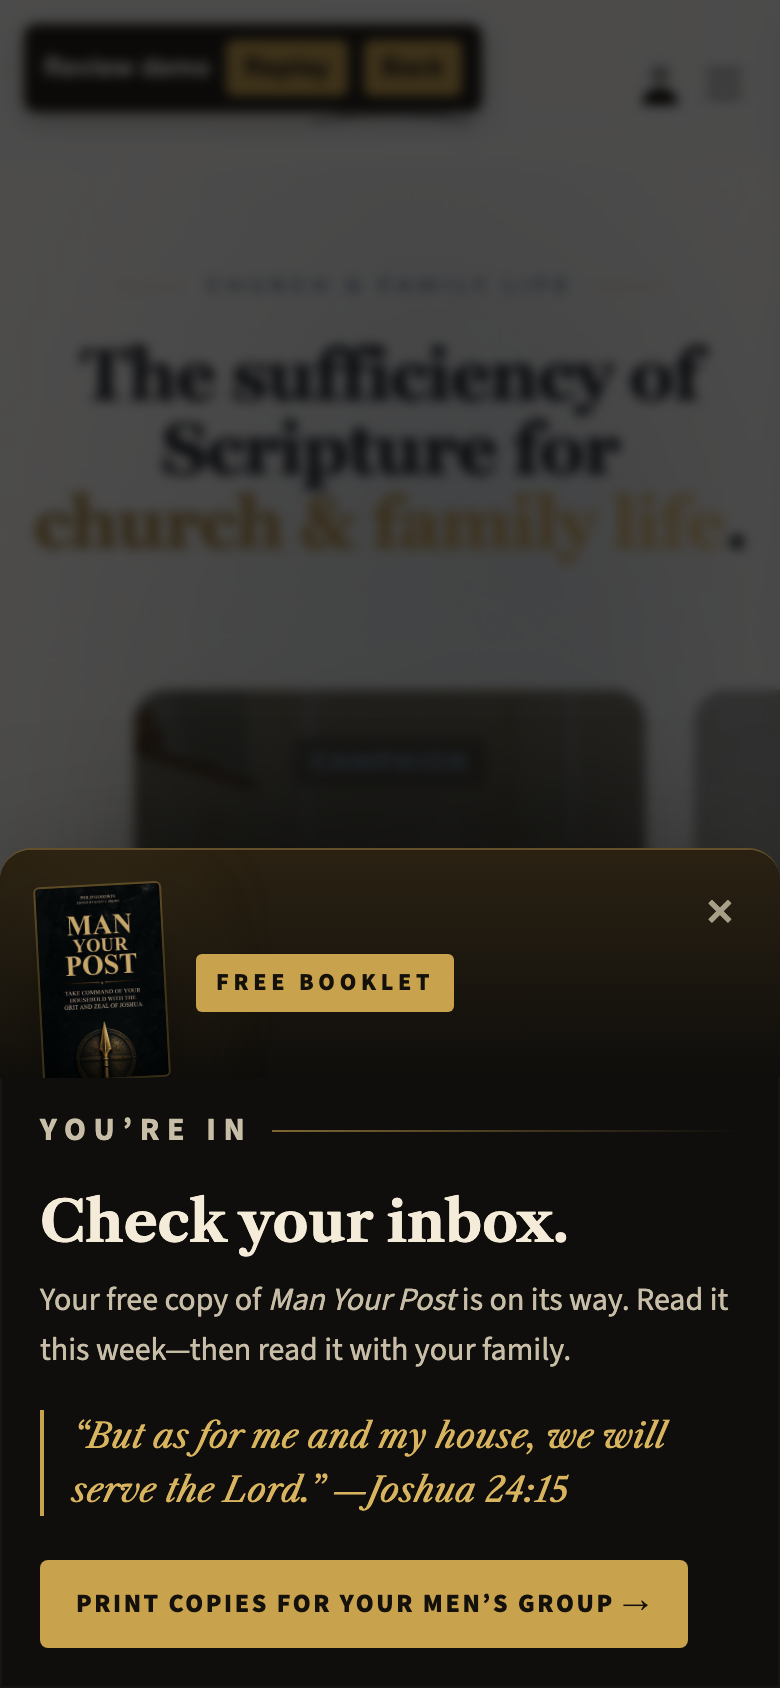
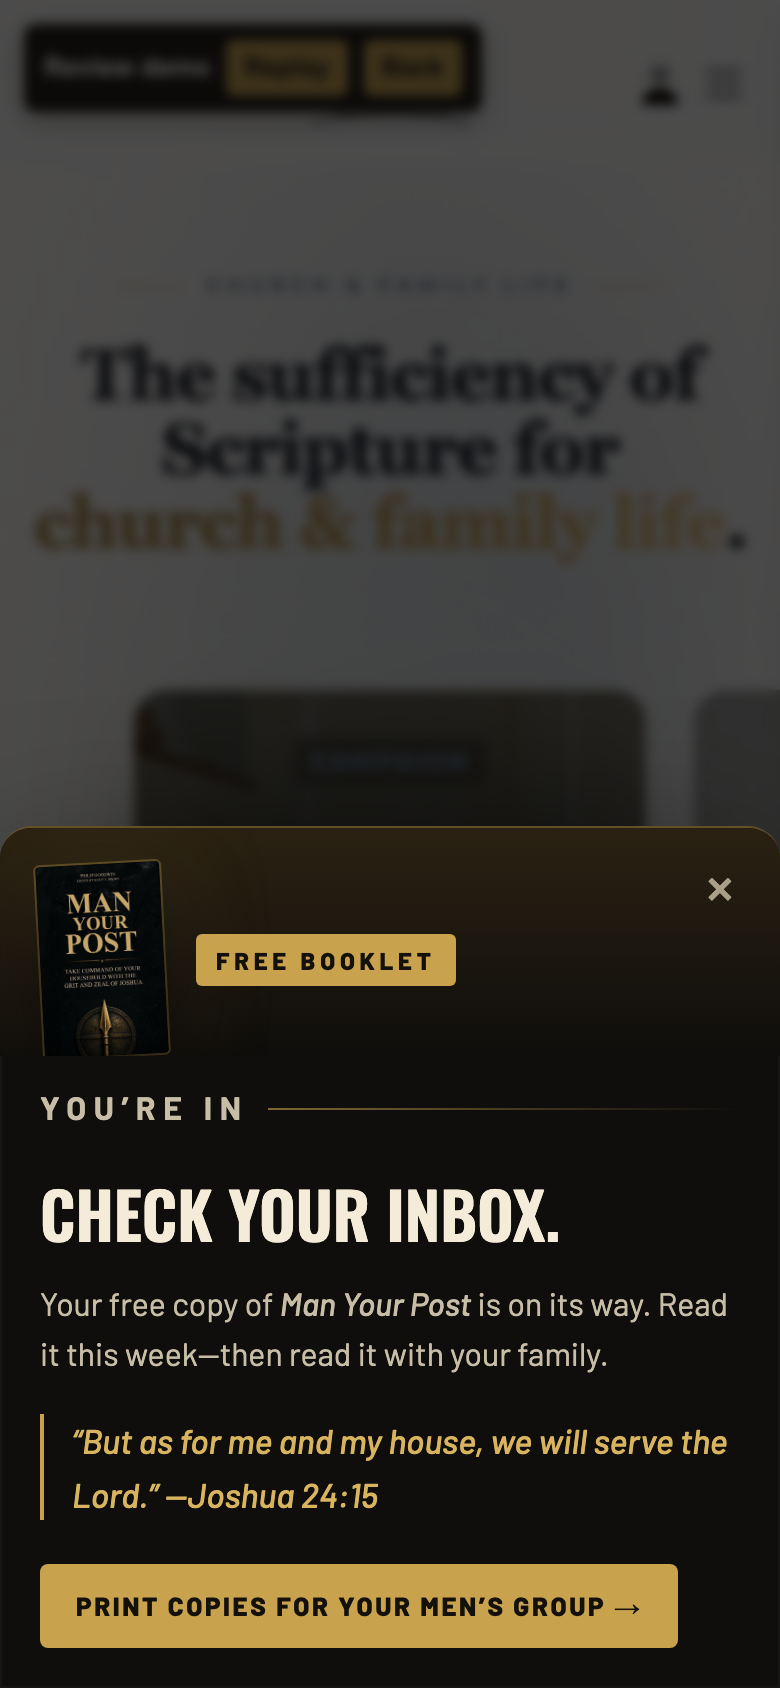
v3 type: Oswald headlines, Cinzel sign-off, Barlow body (cards + popup)

diff --git a/popup/myp-popup.js b/popup/myp-popup.js
@@ -60,26 +60,26 @@
 *{box-sizing:border-box}\
 .bd{position:fixed;inset:0;z-index:2147483000;background:rgba(8,7,5,.72);backdrop-filter:blur(3px);-webkit-backdrop-filter:blur(3px);display:flex;align-items:center;justify-content:center;padding:24px;opacity:0;transition:opacity .35s ease}\
 .bd.on{opacity:1}\
-.dlg{position:relative;width:100%;max-width:820px;display:grid;grid-template-columns:300px 1fr;background:#0f0e0c;color:#efe6d2;border:1px solid rgba(201,162,78,.45);box-shadow:0 30px 80px rgba(0,0,0,.6),inset 0 0 0 1px rgba(255,255,255,.03);border-radius:6px;overflow:hidden;transform:translateY(14px) scale(.985);transition:transform .45s cubic-bezier(.2,.8,.2,1);font-family:'Source Sans 3','Helvetica Neue',Arial,sans-serif}\
+.dlg{position:relative;width:100%;max-width:820px;display:grid;grid-template-columns:300px 1fr;background:#0f0e0c;color:#efe6d2;border:1px solid rgba(201,162,78,.45);box-shadow:0 30px 80px rgba(0,0,0,.6),inset 0 0 0 1px rgba(255,255,255,.03);border-radius:6px;overflow:hidden;transform:translateY(14px) scale(.985);transition:transform .45s cubic-bezier(.2,.8,.2,1);font-family:'Barlow','Helvetica Neue',Arial,sans-serif}\
 .bd.on .dlg{transform:none}\
 .art{position:relative;background:radial-gradient(120% 80% at 50% 38%,#3a2d14 0%,#16120b 55%,#0a0908 100%);display:flex;align-items:center;justify-content:center;padding:34px 28px;overflow:hidden}\
 .cover{position:relative;z-index:1;width:100%;max-width:210px;aspect-ratio:1080/1669;object-fit:cover;border-radius:2px;box-shadow:0 22px 40px rgba(0,0,0,.7),0 0 0 1px rgba(201,162,78,.35),0 0 60px rgba(201,162,78,.18);transform:rotate(-2.5deg)}\
-.ribbon{position:absolute;z-index:2;top:22px;left:-38px;transform:rotate(-38deg);background:#c9a24e;color:#14110b;font:800 12px/1 'Source Sans 3',Arial,sans-serif;letter-spacing:.22em;padding:7px 48px;box-shadow:0 4px 12px rgba(0,0,0,.4)}\
+.ribbon{position:absolute;z-index:2;top:22px;left:-38px;transform:rotate(-38deg);background:#c9a24e;color:#14110b;font:800 12px/1 'Barlow',Arial,sans-serif;letter-spacing:.22em;padding:7px 48px;box-shadow:0 4px 12px rgba(0,0,0,.4)}\
 .body{padding:40px 42px 30px}\
 .eyebrow{font-size:12px;font-weight:700;letter-spacing:.24em;text-transform:uppercase;color:#c9a24e;margin:0 0 14px;display:flex;align-items:center;gap:10px}\
 .eyebrow:after{content:'';flex:1;height:1px;background:linear-gradient(90deg,rgba(201,162,78,.6),transparent)}\
-h2{text-wrap:balance;font-family:'Libre Caslon Text',Georgia,'Times New Roman',serif;font-weight:700;font-size:29px;line-height:1.17;margin:0 0 14px;color:#f4ecd9;letter-spacing:-.005em}\
+h2{text-wrap:balance;font-family:'Oswald',Impact,sans-serif;text-transform:uppercase;font-weight:600;font-size:33px;line-height:1.08;margin:0 0 14px;color:#f4ecd9;letter-spacing:-.005em}\
 h2 em{font-style:normal;color:#d9b45f;display:block;margin-top:4px}\
 .dlg:focus{outline:none}\
-.cta{font-family:'Libre Caslon Text',Georgia,serif;font-size:19px;line-height:1.35;margin:0 0 14px;color:#efe6d2}\
-.cta b{color:#d9b45f;font-weight:700;white-space:nowrap}\
+.cta{font-family:'Barlow',Arial,sans-serif;font-weight:600;font-size:19px;line-height:1.35;margin:0 0 14px;color:#efe6d2}\
+.cta b{font-family:'Cinzel',Georgia,serif;color:#d9b45f;font-weight:800;white-space:nowrap;letter-spacing:.02em}\
 .lede{font-size:15.5px;line-height:1.55;color:#c8bea8;margin:0 0 20px}\
 .lede i{color:#e6dcc4}\
 form{display:grid;grid-template-columns:1fr 1.35fr;gap:10px;margin:0}\
 input{width:100%;font:inherit;font-size:16px;color:#f4ecd9;background:#1a1814;border:1px solid #3b3529;border-radius:4px;padding:13px 14px;outline:none;transition:border-color .2s,box-shadow .2s}\
 input::placeholder{color:#7f7663}\
 input:focus{border-color:#c9a24e;box-shadow:0 0 0 3px rgba(201,162,78,.2)}\
-button.go{grid-column:1/-1;font:800 15px/1 'Source Sans 3',Arial,sans-serif;letter-spacing:.14em;text-transform:uppercase;color:#14110b;background:linear-gradient(180deg,#dcb766,#c39a45);border:0;border-radius:4px;padding:16px 18px;cursor:pointer;box-shadow:0 6px 18px rgba(201,162,78,.25);transition:transform .15s,filter .15s}\
+button.go{grid-column:1/-1;font:800 15px/1 'Barlow',Arial,sans-serif;letter-spacing:.14em;text-transform:uppercase;color:#14110b;background:linear-gradient(180deg,#dcb766,#c39a45);border:0;border-radius:4px;padding:16px 18px;cursor:pointer;box-shadow:0 6px 18px rgba(201,162,78,.25);transition:transform .15s,filter .15s}\
 button.go:hover{filter:brightness(1.06);transform:translateY(-1px)}\
 button.go:disabled{opacity:.6;cursor:wait;transform:none}\
 .fine{font-size:12.5px;line-height:1.45;color:#8a816d;margin:12px 0 0}\
@@ -91,9 +91,9 @@ button.go:disabled{opacity:.6;cursor:wait;transform:none}\
 .x{position:absolute;top:10px;right:10px;width:40px;height:40px;border-radius:50%;border:0;background:transparent;color:#a99f88;font-size:26px;line-height:40px;cursor:pointer;z-index:3}\
 .x:hover{background:rgba(255,255,255,.06);color:#f4ecd9}\
 .ok{display:none}\
-.ok h3{font-family:'Libre Caslon Text',Georgia,serif;font-size:28px;margin:0 0 10px;color:#f4ecd9}\
+.ok h3{font-family:'Oswald',Impact,sans-serif;text-transform:uppercase;font-weight:600;font-size:32px;margin:0 0 10px;color:#f4ecd9}\
 .ok p{font-size:16px;line-height:1.55;color:#c8bea8;margin:0 0 16px}\
-.ok .vs{font-family:'Libre Caslon Text',Georgia,serif;font-style:italic;color:#d9b45f;font-size:17px;border-left:2px solid #c9a24e;padding-left:14px;margin:18px 0 22px}\
+.ok .vs{font-family:'Barlow',Arial,sans-serif;font-weight:500;font-style:italic;color:#d9b45f;font-size:17px;border-left:2px solid #c9a24e;padding-left:14px;margin:18px 0 22px}\
 .ok a.btn{display:inline-block;color:#14110b;background:#c9a24e;text-decoration:none;font-weight:800;letter-spacing:.1em;text-transform:uppercase;font-size:13px;padding:13px 18px;border-radius:4px}\
 .done .form-area{display:none}.done .ok{display:block}\
 :focus-visible{outline:2px solid #e3c47a;outline-offset:2px}\
@@ -109,7 +109,7 @@ button.go:disabled{opacity:.6;cursor:wait;transform:none}\
  .ribbon{display:none}\
  .tag{display:block}\
  .body{padding:14px 20px 20px}\
- h2{font-size:23px;margin-bottom:10px}\
+ h2{font-size:27px;margin-bottom:10px}\
  .cta{font-size:17px;margin-bottom:10px}\
  .lede{font-size:14.5px;line-height:1.5;margin-bottom:14px}\
  form{grid-template-columns:1fr}\
@@ -153,7 +153,7 @@ button.go:disabled{opacity:.6;cursor:wait;transform:none}\
     if (document.getElementById("myp-fonts")) return;
     var l = document.createElement("link");
     l.id = "myp-fonts"; l.rel = "stylesheet";
-    l.href = "https://fonts.googleapis.com/css2?family=Libre+Caslon+Text:ital,wght@0,400;0,700;1,400&family=Source+Sans+3:wght@400;600;700;800&display=swap";
+    l.href = "https://fonts.googleapis.com/css2?family=Oswald:wght@500;600;700&family=Cinzel:wght@700;800;900&family=Barlow:ital,wght@0,400;0,500;0,600;0,700;0,800;1,500&display=swap";
     document.head.appendChild(l);
   }
 

diff --git a/index.html b/index.html
@@ -1,12 +1,12 @@
 <!doctype html><html lang="en"><head><meta charset="utf-8"><meta name="viewport" content="width=device-width,initial-scale=1">
 <meta name="robots" content="noindex,nofollow"><title>Review: Man Your Post giveaway (CFL)</title>
-<link href="https://fonts.googleapis.com/css2?family=Libre+Caslon+Text:ital,wght@0,400;0,700;1,400&family=Source+Sans+3:wght@400;600;700;800&display=swap" rel="stylesheet">
+<link href="https://fonts.googleapis.com/css2?family=Oswald:wght@500;600;700&family=Cinzel:wght@700;800&family=Barlow:ital,wght@0,400;0,600;0,800;1,500&display=swap" rel="stylesheet">
 <style>
-*{box-sizing:border-box}body{margin:0;background:#0d0c0a;color:#ece3cf;font:16px/1.55 'Source Sans 3',Arial,sans-serif}
+*{box-sizing:border-box}body{margin:0;background:#0d0c0a;color:#ece3cf;font:16px/1.55 'Barlow',Arial,sans-serif}
 a{color:#d9b45f}.w{max-width:1180px;margin:0 auto;padding:0 24px}
 header{border-bottom:1px solid #2b261d;padding:46px 0 34px;background:radial-gradient(80% 140% at 80% 0,#2a2112,#0d0c0a 70%)}
 .k{font-weight:800;letter-spacing:.24em;text-transform:uppercase;color:#c9a24e;font-size:12px}
-h1,h2,h3{font-family:'Libre Caslon Text',Georgia,serif;color:#f4ecd9;line-height:1.15}h1{font-size:40px;margin:10px 0 12px}h2{font-size:28px;margin:0 0 8px}
+h1,h2,h3{font-family:'Oswald',Impact,sans-serif;text-transform:uppercase;font-weight:600;letter-spacing:.01em;color:#f4ecd9;line-height:1.15}h1{font-size:40px;margin:10px 0 12px}h2{font-size:28px;margin:0 0 8px}
 .sub{color:#b9ae95;max-width:760px}section{padding:46px 0;border-bottom:1px solid #221e17}
 .btn{display:inline-block;background:#c9a24e;color:#14110b;text-decoration:none;font-weight:800;letter-spacing:.1em;text-transform:uppercase;font-size:13px;padding:13px 18px;border-radius:4px;margin:6px 8px 6px 0}
 .btn.o{background:transparent;color:#d9b45f;border:1px solid #6b5a33}
@@ -16,9 +16,9 @@ h1,h2,h3{font-family:'Libre Caslon Text',Georgia,serif;color:#f4ecd9;line-height
 .grid{display:grid;grid-template-columns:repeat(auto-fill,minmax(250px,1fr));gap:22px;margin-top:22px}
 .post{display:grid;grid-template-columns:300px 1fr;gap:26px;padding:24px;background:#141310;border:1px solid #2b261d;border-radius:8px;margin-top:20px}
 .post img{width:100%;border-radius:4px}
-pre{white-space:pre-wrap;font:15.5px/1.55 'Source Sans 3',Arial,sans-serif;background:#0d0c0a;border:1px solid #2b261d;border-radius:6px;padding:16px;margin:10px 0 0;color:#e6dcc5}
+pre{white-space:pre-wrap;font:15.5px/1.55 'Barlow',Arial,sans-serif;background:#0d0c0a;border:1px solid #2b261d;border-radius:6px;padding:16px;margin:10px 0 0;color:#e6dcc5}
 .tag{font-size:12px;font-weight:700;letter-spacing:.14em;text-transform:uppercase;color:#c9a24e}
-.copy{float:right;background:#2a2418;color:#e6dcc5;border:1px solid #4a3f2a;border-radius:4px;font:600 12px 'Source Sans 3';padding:6px 10px;cursor:pointer}
+.copy{float:right;background:#2a2418;color:#e6dcc5;border:1px solid #4a3f2a;border-radius:4px;font:600 12px 'Barlow';padding:6px 10px;cursor:pointer}
 ul.n li{margin:6px 0;color:#cfc5ad}code{background:#1d1a14;padding:1px 6px;border-radius:3px;font-size:14px}
 @media(max-width:820px){.shots,.post{grid-template-columns:1fr}h1{font-size:30px}}
 </style></head><body>
@@ -33,7 +33,7 @@ ul.n li{margin:6px 0;color:#cfc5ad}code{background:#1d1a14;padding:1px 6px;borde
 <div><img src="assets/popup-mobile.png" alt="Popup on mobile"><div class="cap">iPhone (390px)</div><img style="margin-top:18px" src="assets/popup-mobile-success.png" alt="Mobile success"><div class="cap">After sign-up</div></div></div>
 </div></section>
 
-<section><div class="w"><h2>2 · Social artwork</h2><p class="sub">v2 (9:20am): background changed to a 19th-century realist oil painting, the kind Michael Foster uses on his X articles. The painting runs unshaded at the top, and the black-and-gold panel with the booklet sits below it. Click any image for the full-size file. The first dark versions are still in <a href="social/v1-dark/feed-1080x1350.jpg">social/v1-dark/</a>.</p>
+<section><div class="w"><h2>2 · Social artwork</h2><p class="sub">v3 (9:35am): headlines are now set in Oswald, a bold condensed modern face. The sign-off line "Men, man your post." uses Cinzel, which matches the cover's carved serif title, and the body text is Barlow. The popup uses the same type. The v2 versions in Libre Caslon are saved in <a href="social/v2-caslon/feed-1080x1350.jpg">social/v2-caslon/</a>.</p><p class="sub">v2 (9:20am): background changed to a 19th-century realist oil painting, the kind Michael Foster uses on his X articles. The painting runs unshaded at the top, and the black-and-gold panel with the booklet sits below it. Click any image for the full-size file. The first dark versions are still in <a href="social/v1-dark/feed-1080x1350.jpg">social/v1-dark/</a>.</p>
 <div class="grid"><div><a href="social/feed-1080x1350.jpg" target="_blank"><img src="social/feed-1080x1350.jpg" alt="Feed · 1080×1350" loading="lazy"></a><div class="tag" style="margin-top:8px">Feed · 1080×1350</div><div class="cap">Instagram / Facebook portrait</div></div><div><a href="social/square-1080.jpg" target="_blank"><img src="social/square-1080.jpg" alt="Square · 1080×1080" loading="lazy"></a><div class="tag" style="margin-top:8px">Square · 1080×1080</div><div class="cap">Facebook, IG grid, LinkedIn</div></div><div><a href="social/story-1080x1920.jpg" target="_blank"><img src="social/story-1080x1920.jpg" alt="Story · 1080×1920" loading="lazy"></a><div class="tag" style="margin-top:8px">Story · 1080×1920</div><div class="cap">IG / FB Story</div></div><div><a href="social/wide-1600x900.jpg" target="_blank"><img src="social/wide-1600x900.jpg" alt="Wide · 1600×900" loading="lazy"></a><div class="tag" style="margin-top:8px">Wide · 1600×900</div><div class="cap">X, Facebook link post, email header</div></div><div><a href="social/quote-1080x1350.jpg" target="_blank"><img src="social/quote-1080x1350.jpg" alt="Quote card · 1080×1350" loading="lazy"></a><div class="tag" style="margin-top:8px">Quote card · 1080×1350</div><div class="cap">Post 2 / carousel slide 2</div></div></div>
 </div></section>
 

diff --git a/COPY.md b/COPY.md
@@ -102,4 +102,5 @@ X post length: 250/280 (links count as 23).
 - Nonprofit guardrail: the copy names an ideology ("liberalism"), never a candidate or party, so it stays inside the 501(c)(3) line on campaign intervention. Keep any edits that way.
 - All social links go to `?free=man-your-post`, which opens the popup immediately on any page. **Don't publish the posts until the popup is live**, or that link just lands on the homepage. Until then, point them at the product page.
 - "Free copy" is set up as a **digital** copy delivered by email. The site has 50 print copies in stock, so a free print giveaway would need a shipping or quantity decision first.
+- Type v3 (David, 09:26: "more modern and a bit more manly, works with the cover"): headlines are in Oswald 600 caps. The sign-off and title are in Cinzel 800, which echoes the cover's serif. Body text is Barlow. The same type is used in the popup. The v2 Caslon cards are in social/v2-caslon/.
 - Artwork v2 (David, 09:06): "lighter but still strong, an image Michael Foster would use for his X articles". The background is now an AI-generated 19th-century realist oil painting (a father at his cottage gate, his family in the doorway). It's not a real artwork, so there's no artist credit. The booklet panel is unchanged. The v1 dark art is in social/v1-dark/. The headline, cover, and type are rendered on top with `render.mjs` (Libre Caslon Text + Source Sans 3), so wording edits just mean re-running `node render.mjs cards`.
